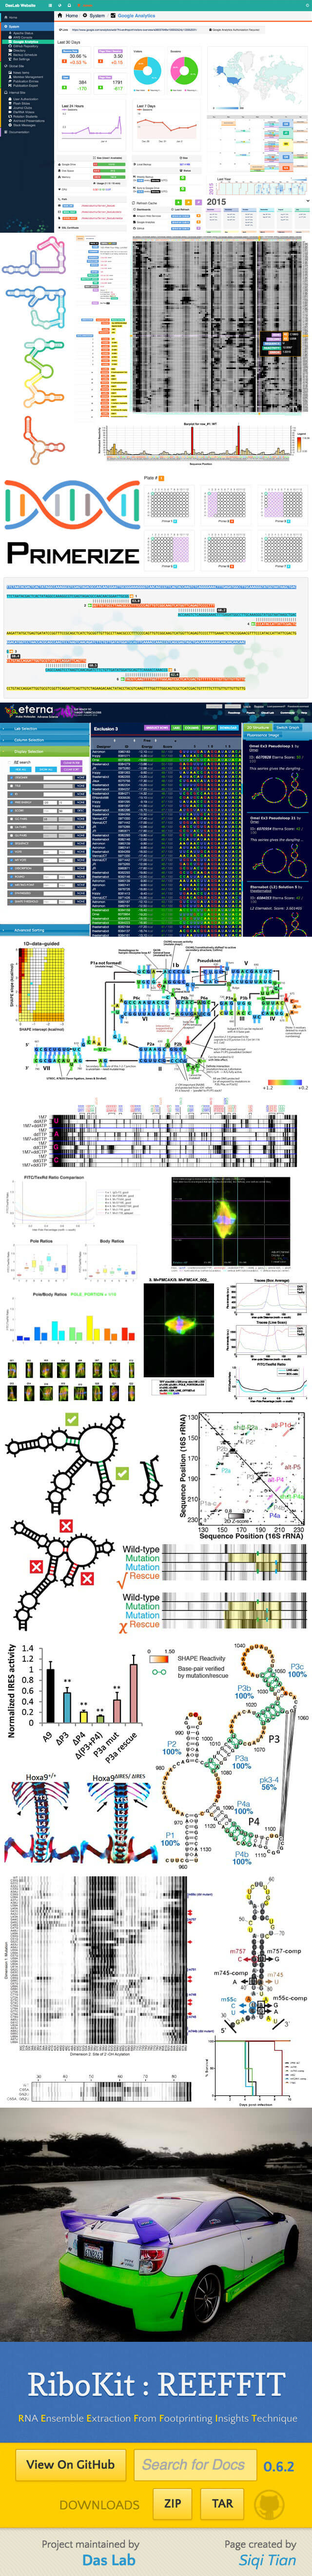
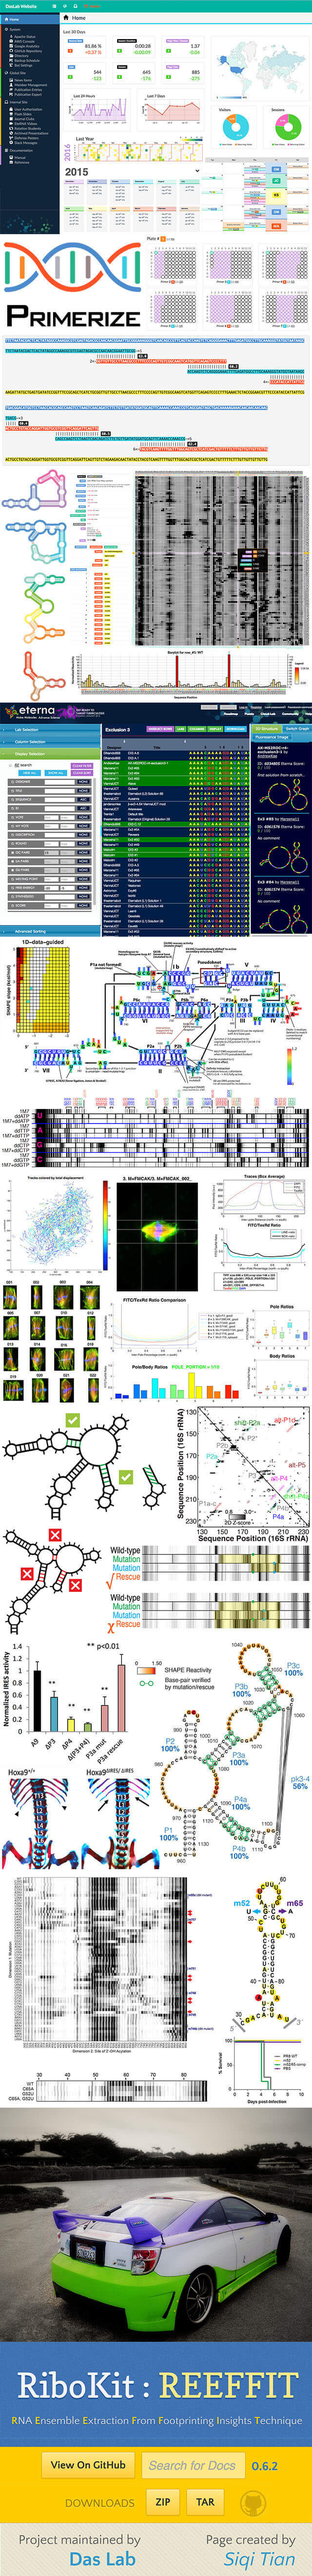
add sprite portfolio  @2x/3x

diff --git a/app/index/scss/_sprites.scss b/app/index/scss/_sprites.scss
@@ -4,8 +4,8 @@
 @include img_sprites('./img/sp_portfolio.jpg',
   640px, 480px, (
     'SPRITE__portfolio-daslab',
-    'SPRITE__portfolio-rmdb',
     'SPRITE__portfolio-primerize',
+    'SPRITE__portfolio-rmdb',
     'SPRITE__portfolio-eterna',
     'SPRITE__portfolio-hitrace',
     'SPRITE__portfolio-spindle',
@@ -14,7 +14,7 @@
     'SPRITE__portfolio-flu',
     'SPRITE__portfolio-celica',
     'SPRITE__portfolio-ribokit'
-  ), false
+  ), true
 );
 @include img_sprites('./img/sp_publications.jpg',
   432px, 216px, (
